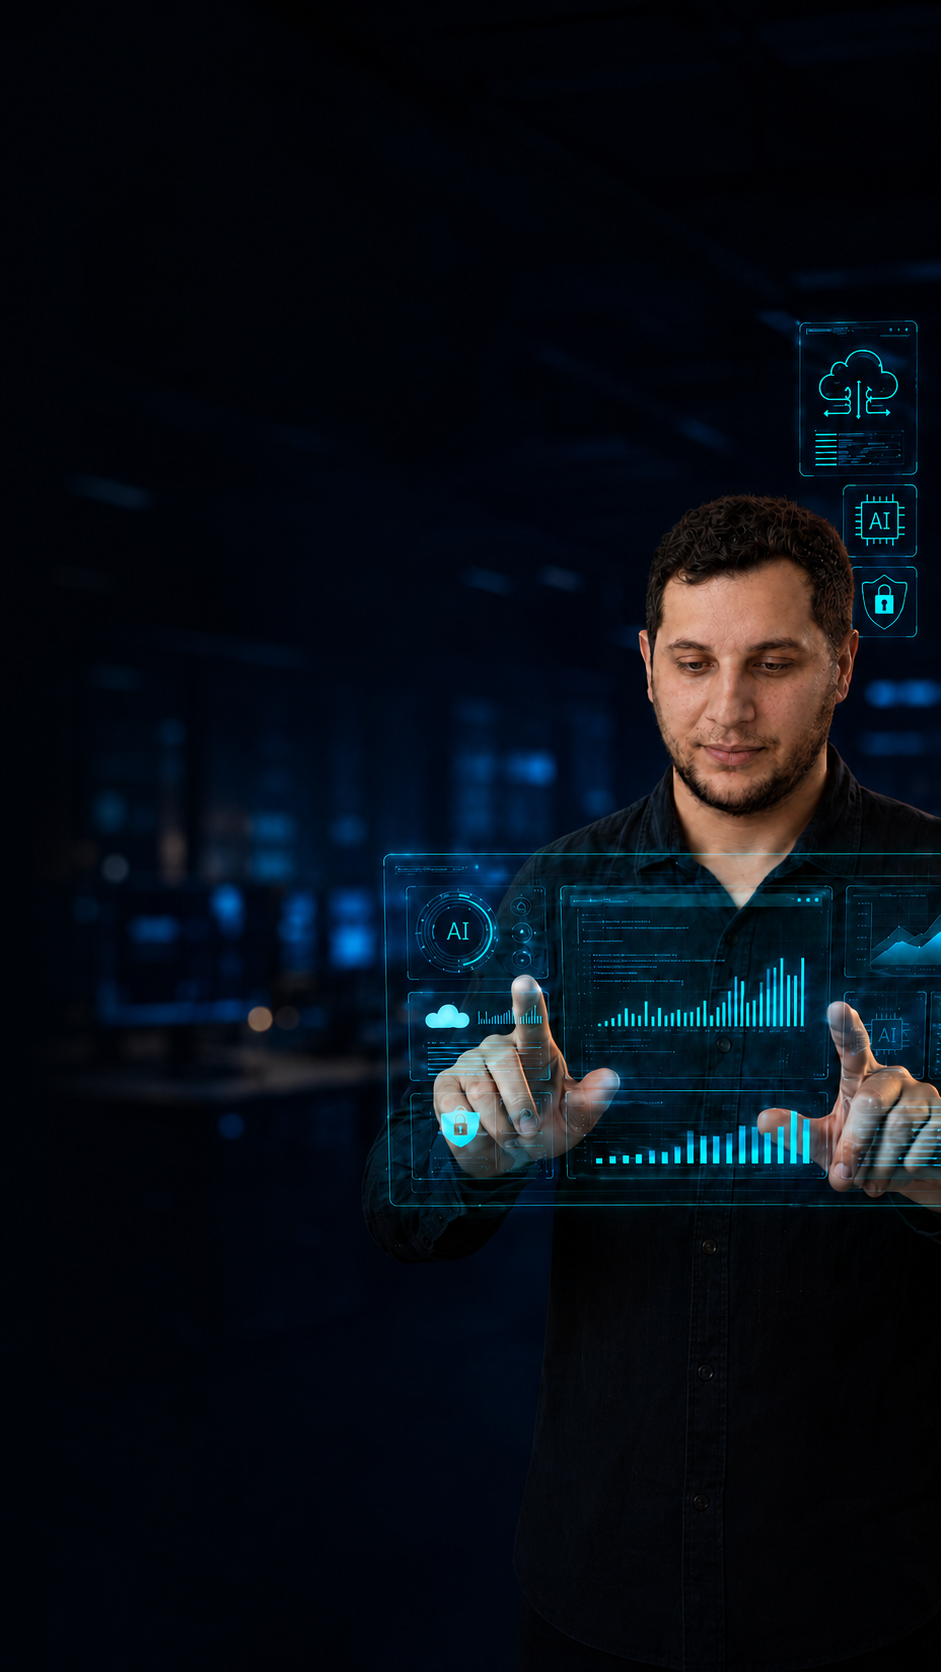
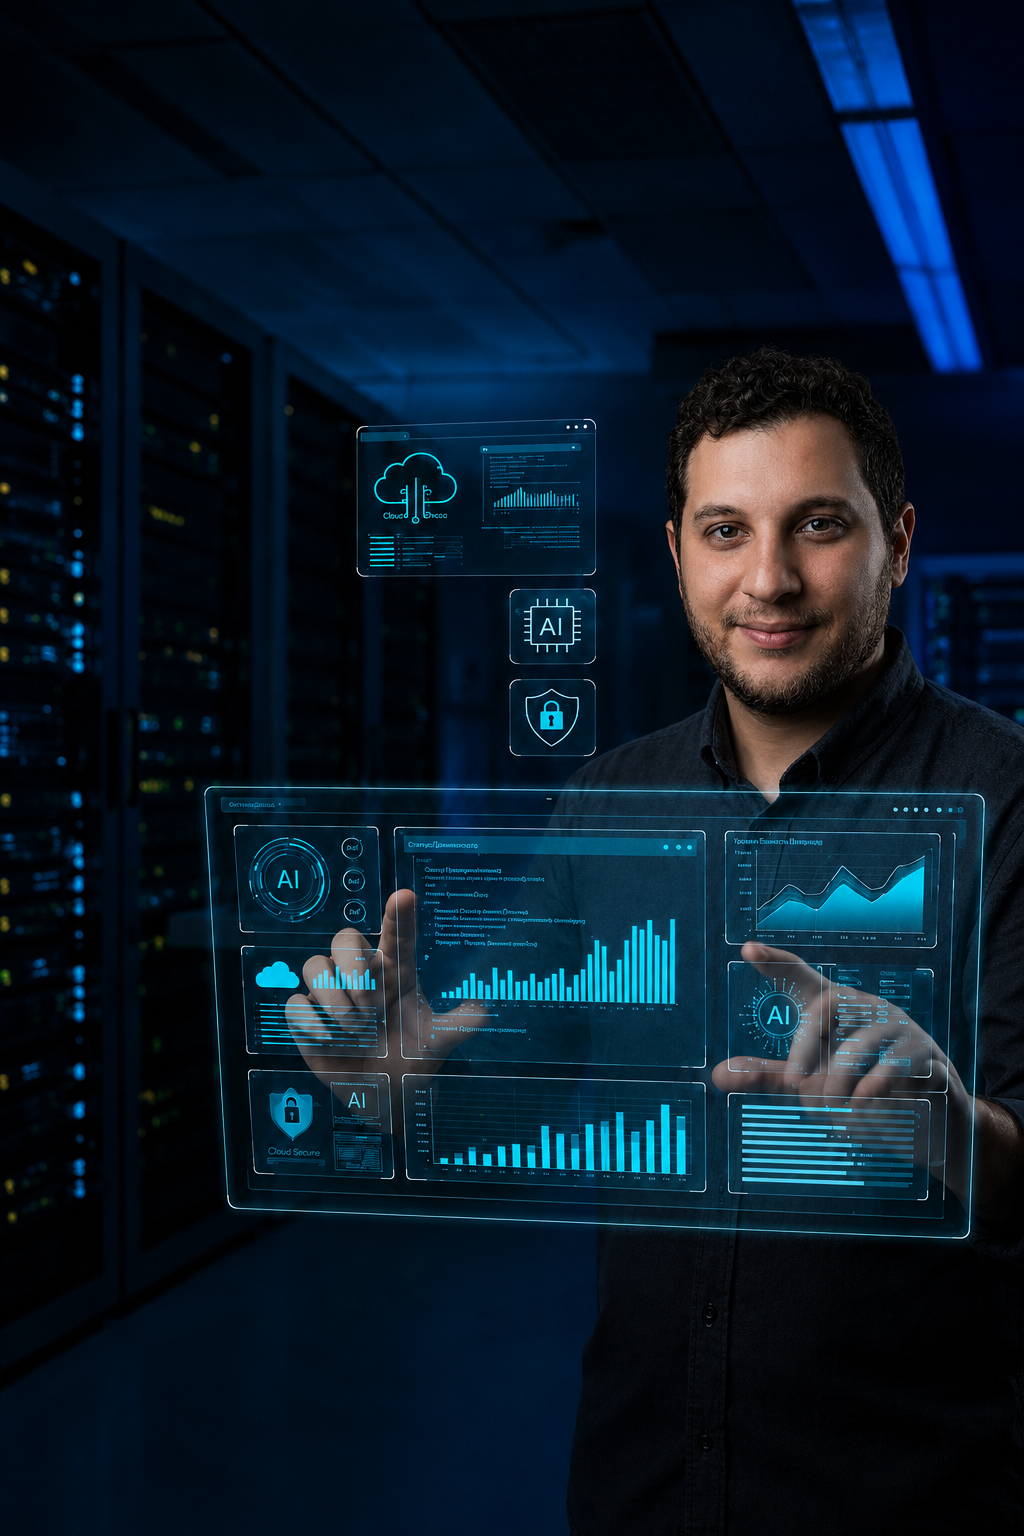
hero image in mobile and desktop fixed

diff --git a/components/site/home/HomePage.tsx b/components/site/home/HomePage.tsx
@@ -86,7 +86,7 @@ function Hero() {
         alt="Zakeri Labs – AI Website Growth Infrastructure"
         fill
         priority
-        className="object-cover object-[60%_top] translate-y-8 rtl:-scale-x-100 lg:hidden"
+        className="object-cover object-[68%_top] lg:hidden"
       />
       <Image
         src="/hero-image.png"
@@ -105,7 +105,10 @@ function Hero() {
 
       {/* Content */}
       <div className="relative z-10 mx-auto w-full max-w-7xl px-6 pb-24 pt-36 sm:px-8 lg:px-8 lg:pb-32 lg:pt-44">
-        <motion.div {...fade} className="max-w-[12rem] sm:max-w-[16rem] md:max-w-sm lg:max-w-2xl">
+        <motion.div
+          {...fade}
+          className="w-[54%] max-w-[12rem] sm:w-auto sm:max-w-[16rem] md:max-w-sm lg:max-w-2xl"
+        >
           <span className="inline-flex max-w-[12rem] items-center gap-2 rounded-full border border-primary/30 bg-primary/10 px-3 py-1 text-[11px] font-medium leading-tight text-primary sm:max-w-none">
             <Sparkles className="h-3 w-3" /> {t("hero.badge")}
           </span>